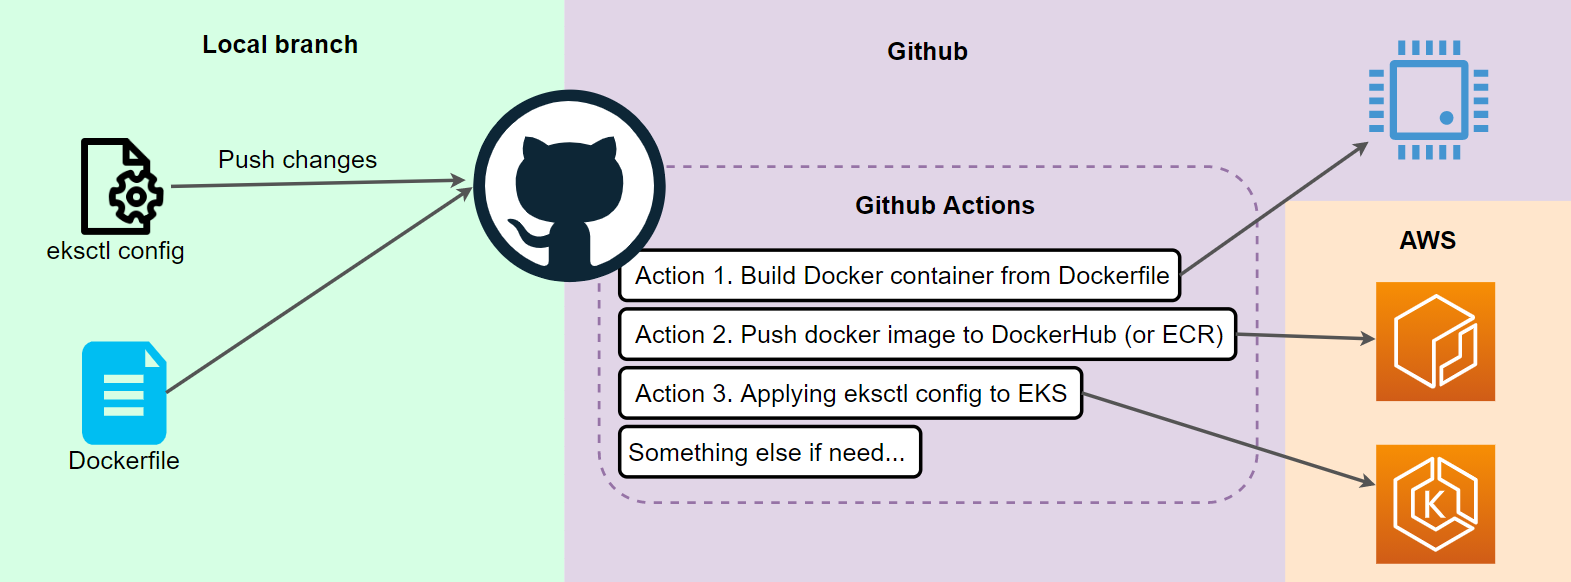
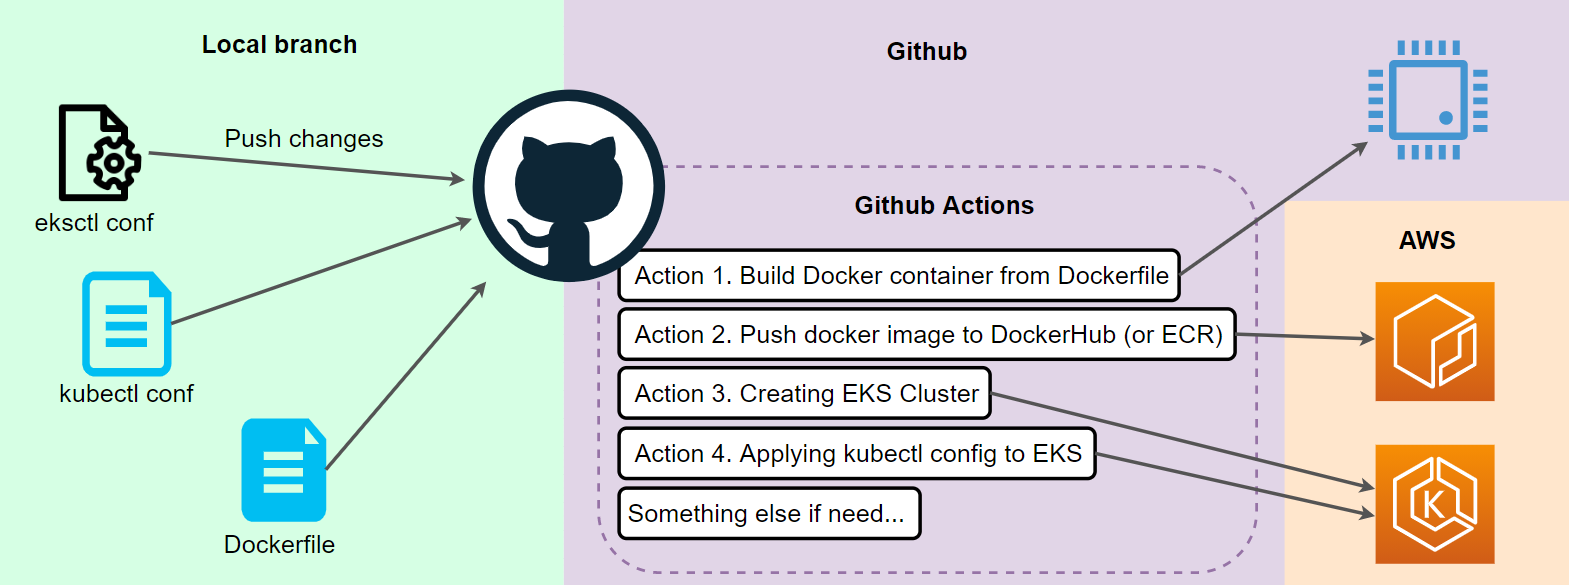
Updated chart and ToDo list

diff --git a/README.md b/README.md
@@ -2,11 +2,11 @@
 Chart:
 ![Image alt](https://github.com/MTimoshchenko/deploying_graylog_in_aws_eks/blob/master/chart.png)
 
-ToDo:
-1. Create simple dockerfile to test
-2. Create eksctl manifest
-3. Create kubectl manifest
-4. Test ^ locally
-5. Create GitHub Actions according to the diagram and test/polish it
-6. Create the required manifests for Graylog EKS cluster and test it
-7. Agree on the required architecture anf apply it
+ToDo:  
+> ~~1. Create simple dockerfile to test~~    
+> ~~2. Create eksctl manifest~~  
+> ~~3. Create kubectl manifest~~  
+> 4. Test ^ locally  
+> 5. Create GitHub Actions according to the diagram and test/polish it  
+> 6. Create the required manifests for Graylog EKS cluster and test it  
+> 7. Agree on the required architecture anf apply it  
